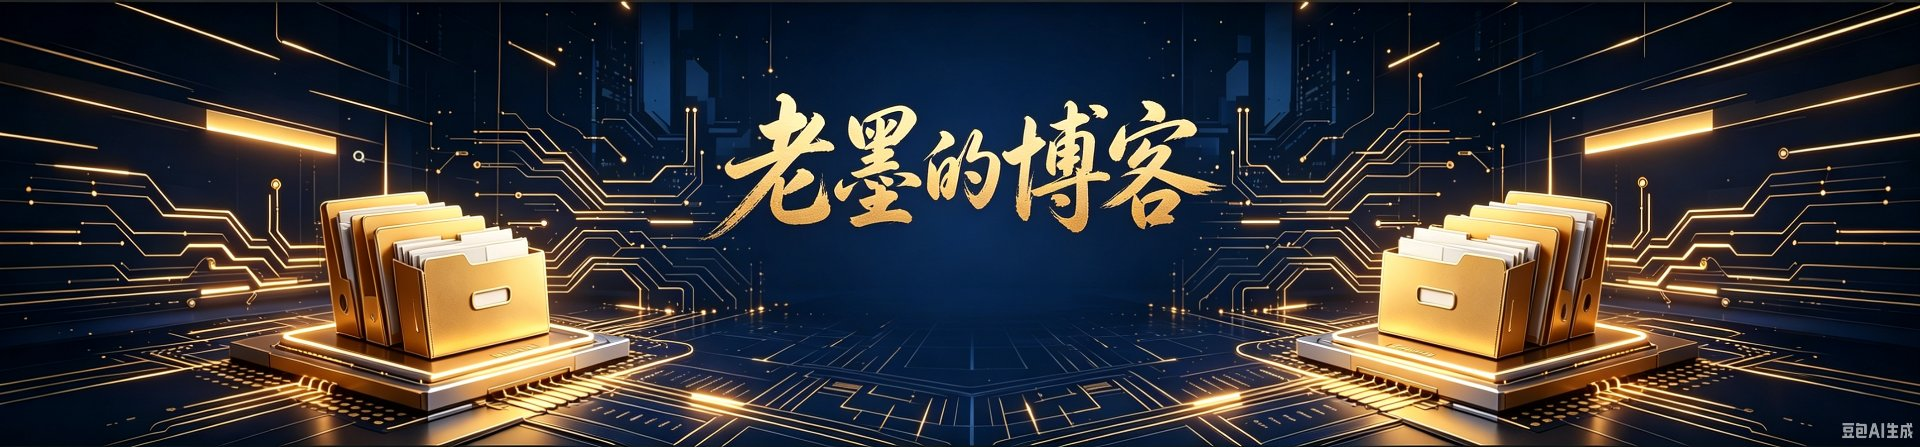
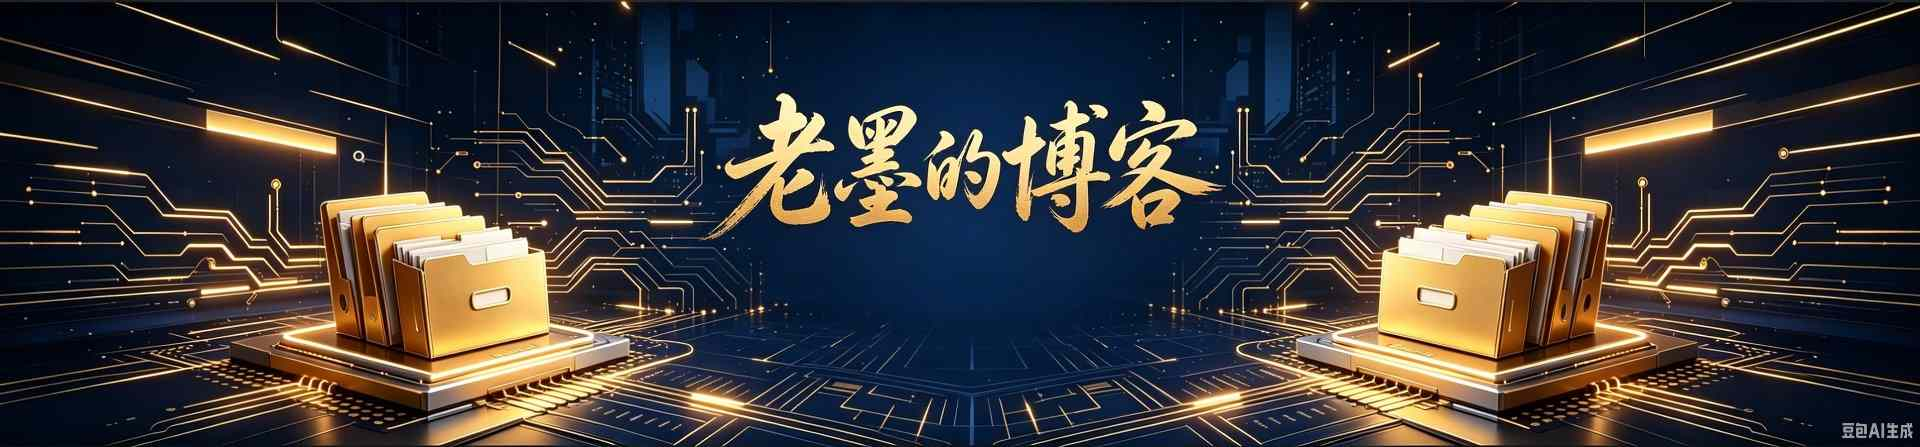
新增文章：易经不是用来读的，是用来查的

diff --git a/_posts/2026-06-25-how-to-learn-yijing-practically.md b/_posts/2026-06-25-how-to-learn-yijing-practically.md
@@ -1,0 +1,209 @@
+---
+layout: post
+title: "易经不是用来读的，是用来查的——一个普通人学易的入门心法"
+subtitle: "从伏羲画卦到孔子作传，三千年的智慧不是让你死记硬背，而是让你遇事查一查"
+date: 2026-06-25
+author: "老墨"
+header-img: "img/post-bg-universe.jpg"
+tags:
+  - 易经
+  - 周易
+  - 传统文化
+  - 国学入门
+  - 人生感悟
+  - 实用方法
+categories:
+  - 国学
+---
+
+## 为什么你读不进去易经？
+
+很多人兴冲冲买一本《周易》回来，翻开第一页——"乾：元，亨，利，贞。"感觉每个字都认识，连在一起却不知道在说什么。再往下翻，"初九：潜龙勿用""九二：见龙在田，利见大人"……好像懂了点，又好像没懂。硬着头皮读到第三卦、第四卦，脑子已经成了一团浆糊。
+
+然后书就被供在书架上吃灰了。
+
+**这不是你智商不够，是你打开方式错了。**
+
+你把《周易》当小说读，当哲学书读，当散文读——但它压根不是这些。它是一本**工具书**。更准确地说，它是一部**解释卦象的参考手册**，性质跟字典一模一样。
+
+谁会把《新华字典》从第一页"啊"字开始，一个字一个字读到最后一页"做"？没有这种人。字典是拿来**查**的，你需要哪个字，就去翻哪个字。
+
+《周易》也一样。
+
+---
+
+## 先搞清楚：易经到底是个什么东西
+
+要学易经，得先理清它的发展脉络。三个关键人物，三步走。
+
+### 第一步：伏羲画八卦——符号系统的诞生
+
+大约六七千年前，伏羲仰观天象，俯察地理，观鸟兽之文与地之宜，近取诸身，远取诸物，于是始作八卦。
+
+八卦是什么？八个符号。用最简单的两种线条——一条实线"—"（阳爻）和一条断线"--"（阴爻），三个一组叠起来，一共八种组合：
+
+| 卦名 | 符号 | 自然对应 |
+|------|------|---------|
+| 乾 ☰ | 三条实线 | 天 |
+| 坤 ☷ | 三条断线 | 地 |
+| 震 ☳ | 下实上断 | 雷 |
+| 巽 ☴ | 下断上实 | 风 |
+| 坎 ☵ | 中实上下断 | 水 |
+| 离 ☲ | 中断上下实 | 火 |
+| 艮 ☶ | 上实下断 | 山 |
+| 兑 ☱ | 上断下实 | 泽 |
+
+这八个符号，是对天地万物最极致的抽象。世界再复杂，归根结底就是这八种力量的排列组合。这一步是**从无到有**——人类第一次用符号来概括整个宇宙的运行规律。
+
+### 第二步：周文王演六十四卦——系统化的推演
+
+伏羲的八卦只有八个，太粗。世界上的事情远不止八种情况。
+
+商朝末年，周文王被商纣王囚禁在羑里。坐牢没事干，他把伏羲的八卦两两重叠——八个上面再叠八个，8×8=64，推演出**六十四卦**。每一卦有六爻，六十四卦共三百八十四爻。
+
+这一步是**从粗到细**。八卦只能告诉你"大概是什么情况"，六十四卦则能告诉你"具体是什么情况"。
+
+而且文王不只推演了卦象，他还给每一卦、每一爻配上了文字说明——这就是**卦辞**和**爻辞**。卦辞解释整个卦的含义，爻辞解释卦中每一爻的含义。
+
+打个比方：伏羲造了"字母表"（八个基础符号），文王用这些字母拼出了"词典"（六十四卦的完整文本）。这部词典，就是《周易》的核心内容。
+
+### 第三步：孔子作易传——附加说明书的诞生
+
+文王编的《周易》有了卦象和文字，但那些文字非常凝练、古奥，后人读起来仍然费劲。就像一本没有注释的文言文课本，字都认识，意思猜不准。
+
+这时候，孔子来了。
+
+孔子晚年痴迷于《周易》。《史记·孔子世家》记载："孔子晚而喜《易》，序《彖》《系》《象》《说卦》《文言》。"他翻来覆去地读，把编联竹简的牛皮绳子都翻断了好几次——这就是**"韦编三绝"**的典故。
+
+孔子的伟大之处在于：他不是替文王改写《周易》，而是站在后人的角度，为看不懂《周易》的人写了一套**辅助说明**。这就是《易传》，又称"十翼"，一共十篇：
+
+- **《彖传》**上下篇——解释每一卦的卦辞
+- **《象传》**上下篇——解释每一卦的卦象和每一爻的爻象
+- **《文言传》**——专门解释乾、坤两卦（最重要的两卦）
+- **《系辞传》**上下篇——总论易经的哲学思想
+- **《说卦传》**——解释八卦的含义和象征
+- **《序卦传》**——解释六十四卦的排列顺序
+- **《杂卦传》**——以另一角度解释各卦要义
+
+如果说文王的《周易》是"正文的教材"，那孔子的《易传》就是"教材的辅导书"。你看不懂正文的时候，去翻辅导书，豁然开朗。
+
+现在我们通行的版本，是经文（文王的卦辞爻辞）和传文（孔子的十翼）合编在一起的。所以你买到的《周易》或《易经》，其实是**两个人的作品**——文王写正文，孔子写注释。
+
+---
+
+## 最大的误区：从头到尾通读
+
+现在问题来了。你知道了易经的来龙去脉，打开书该怎么学？
+
+大多数人的做法是：从第一卦"乾卦"开始，一个字一个字往后啃。乾卦、坤卦、屯卦、蒙卦……读到第十卦就疲惫了，读到第二十卦就放弃了。
+
+**这就是最大的误区。**
+
+我再强调一遍：**《周易》是工具书，不是读物。**
+
+工具书的用法不是"通读"，而是"查阅"。就像你不会从头到尾读完一本字典，你也不应该从头到尾通读《周易》。
+
+正确的学法是：**先起一个卦，再查对应的卦辞和爻辞，最后结合自己的处境去分析。**
+
+---
+
+## 正确的学易姿势：起卦→查卦→断卦
+
+### 第一步：起卦——得到一个卦象
+
+起卦的方式有很多，从古至今演变出很多种：
+
+**最原始的方法：蓍草法。** 用五十根蓍草，经过多次分合运算，得出一卦。这是《系辞传》里记载的正式方法，"大衍之数五十，其用四十有九"。过程繁琐，但最接近古法。
+
+**最简便的方法：铜钱法。** 取三枚铜钱（硬币也行），同时抛出，看正反面组合：
+- 三阳 → 老阳（阳爻，变爻）
+- 两阳一阴 → 少阴（阴爻）
+- 一阳两阴 → 少阳（阳爻）
+- 三阴 → 老阴（阴爻，变爻）
+
+抛六次，从下往上画，就得出一卦。如果其中有变爻（老阳或老阴），还能得出一个"变卦"——代表事态的发展趋势。
+
+**最现代的方法：数字起卦。** 随手报两个数，或者用时间起卦。梅花易数里常用这种方法。简单快捷，随时随地都能用。
+
+方法不重要，核心只有一个：**你得先有一个卦。** 没有卦象，这本书对你来说就是一堆无字天书。有了卦象，书中的文字才有指向，才有生命。
+
+### 第二步：查卦——找到对应的卦辞和爻辞
+
+有了卦象，就去书中翻到对应的卦。比如你得到的是第三卦"屯卦"，就翻到屯卦那一页。
+
+关键信息有四层：
+
+1. **卦名**——这一卦叫什么，主题是什么。屯，就是万事开头难的意思。
+2. **卦辞**——整个卦的总论。屯卦卦辞："元，亨，利，贞。勿用有攸往，利建侯。"意思是：本质是好的，但不要冒进，先扎根。
+3. **爻辞**——你那一爻的具体说明。比如你得到的是屯卦初九，爻辞是："磐桓，利居贞，利建侯。"意思是：徘徊难进，宜守正，宜建立根基。
+4. **易传**——如果爻辞看不懂，翻到后面的《彖传》《象传》，孔子会给你解释。
+
+这就是为什么我说孔子写的是"附加说明书"。你查到爻辞了，但文言文读不懂，怎么办？翻到《象传》，孔子用相对通俗的语言再给你讲一遍。
+
+### 第三步：断卦——分析利弊，指导行动
+
+这一步最重要，也最考验人。
+
+卦辞和爻辞不是预言，不是天机，而是**一种情境分析和策略建议**。它告诉你：你现在处于什么状态，如果这样做会怎样，如果那样做会怎样。
+
+比如你起卦得到"乾卦九四"：**"或跃在渊，无咎。"** 字面意思是：龙或者跃起飞升，或者留在深渊，没有灾祸。这是什么意思？它在告诉你：你现在处于一个可以进取也可以蛰伏的位置，两种选择都没有致命风险，关键看你的准备和时机。这不是算命，这是**决策参考**。
+
+再比如"乾卦初九"：**"潜龙勿用。"** 意思是：龙还潜伏在水底，不要急着用事。如果在一个新环境、新项目里得到这一爻，它就是在提醒你：**先观察，先积累，别急着出头。**
+
+你看，这不是迷信，这是一种**借助古老符号系统来整理思路、审视处境的方法**。三百八十四爻，就是三百八十四种人生处境的模型。你遇到的事情再特殊，大概率也能在其中找到对应的卦象和爻辞。
+
+---
+
+## 一个实操案例：用易经做一个决策
+
+说太抽象了，来个具体例子。
+
+假设你正在犹豫要不要换工作。用铜钱法抛了六次，得到"革卦"（第四十九卦），变爻在九四。
+
+**先查卦辞：** "革：己日乃孚，元亨利贞，悔亡。"革就是变革、革新的意思。卦辞说：到了该变的时候才变，才能取信于人，大吉大利，悔恨消失。
+
+**再查九四爻辞：** "悔亡，有孚改命，吉。"意思是：悔恨消失，有诚信地去改变命运，吉利。
+
+**翻《象传》看孔子怎么说：** "改命之吉，信志也。"——改变命运之所以吉利，是因为志向坚定、诚信为本。
+
+**断卦：** 革卦本身就是讲变革的卦，变爻在九四，进一步确认了"变"的正当性。综合来看，这次换工作是顺应时势的选择，但前提是"有孚"——你要有真本事、有诚信，不能盲目跳槽。
+
+你看，整个过程没有一句神秘主义的话。它就是一套**结构化的思考框架**：用符号定位情境，用文字触发思考，用智慧辅助决策。
+
+---
+
+## 入门建议：别贪多，先学会查
+
+如果你现在就想开始学易经，我的建议很简单：
+
+**1. 买一本好的版本。** 推荐黄寿祺、张善文的《周易译注》，经文和传文都有，注释清楚，白话翻译准确。或者金景芳的《周易全解》，学术性强但深入浅出。别买那些故弄玄虚的"大师解读"。
+
+**2. 学会一种起卦方法。** 铜钱法最简单，三枚硬币就能开始。不用追求古法蓍草，工具不重要，用心才重要。
+
+**3. 遇到事情就起一卦。** 不要为了学习而学习。当你真遇到困惑、真需要做决策时，起一卦，查一查，想一想。这个过程中对卦辞爻辞的理解，比通读十遍都深刻。
+
+**4. 看不懂就看易传。** 爻辞读不懂，翻到后面的《象传》《彖传》，孔子的解释通常更直白。还是不懂就先放一放，记下来，人生阅历到了自然就懂了。
+
+**5. 不要急，不要贪。** 六十四卦，你不需要一次全学会。一年学会十个卦，六年也就全通了。而且你越用越熟，后面会越来越快。孔夫子读了半辈子才"韦编三绝"，你急什么？
+
+---
+
+## 易经的真正价值：不是预测，是启迪
+
+最后说一点个人的感悟。
+
+很多人把易经当算命书，这是最大的误解。易经的核心价值不在于"预测未来"，而在于**"启迪当下"**。
+
+当你起了一卦，查到爻辞，那个过程本身就是一种**深度思考的触发**。你本来犹豫不决的事情，在查卦、读辞、分析的过程中，思路被梳理了，利弊被展开了，心态被调整了。最终帮你做决策的，不是卦象，而是你自己经过整理后的判断力。
+
+孔子说："不占而已矣。"——他不鼓励凡事都去占卜。他写《易传》，是希望后人能从易经的智慧中学会**看问题的方法和做决策的格局**，而不是变成一个事事求神问卜的人。
+
+所以，学易经最好的状态是什么？
+
+**手边放一本《周易》，心里装一套方法。遇到事了，起一卦，查一查，想一想。想完了，该干嘛干嘛。**
+
+卦象不是你的主人，是你的顾问。爻辞不是你的命运，是你的参考。易经不是让你信命，是让你在纷繁复杂的处境中，多一个视角、多一个维度来审视自己。
+
+伏羲画卦，文王演易，孔子作传。三千年的智慧传承到你手上，不是让你供着它，是让你**用它**。
+
+别死读。用起来。